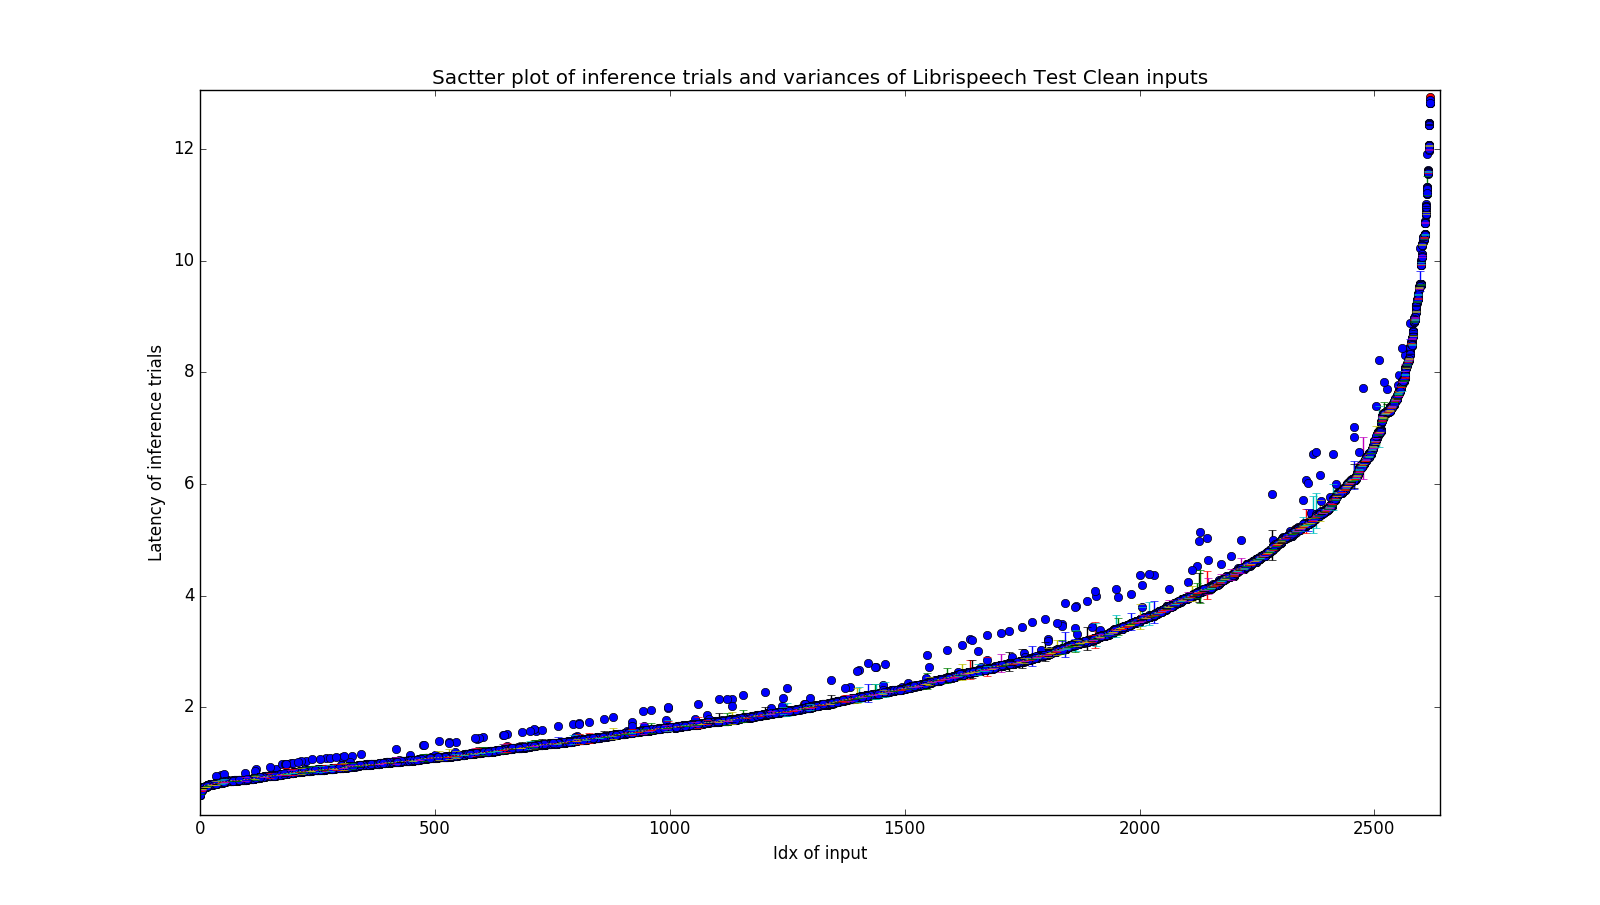
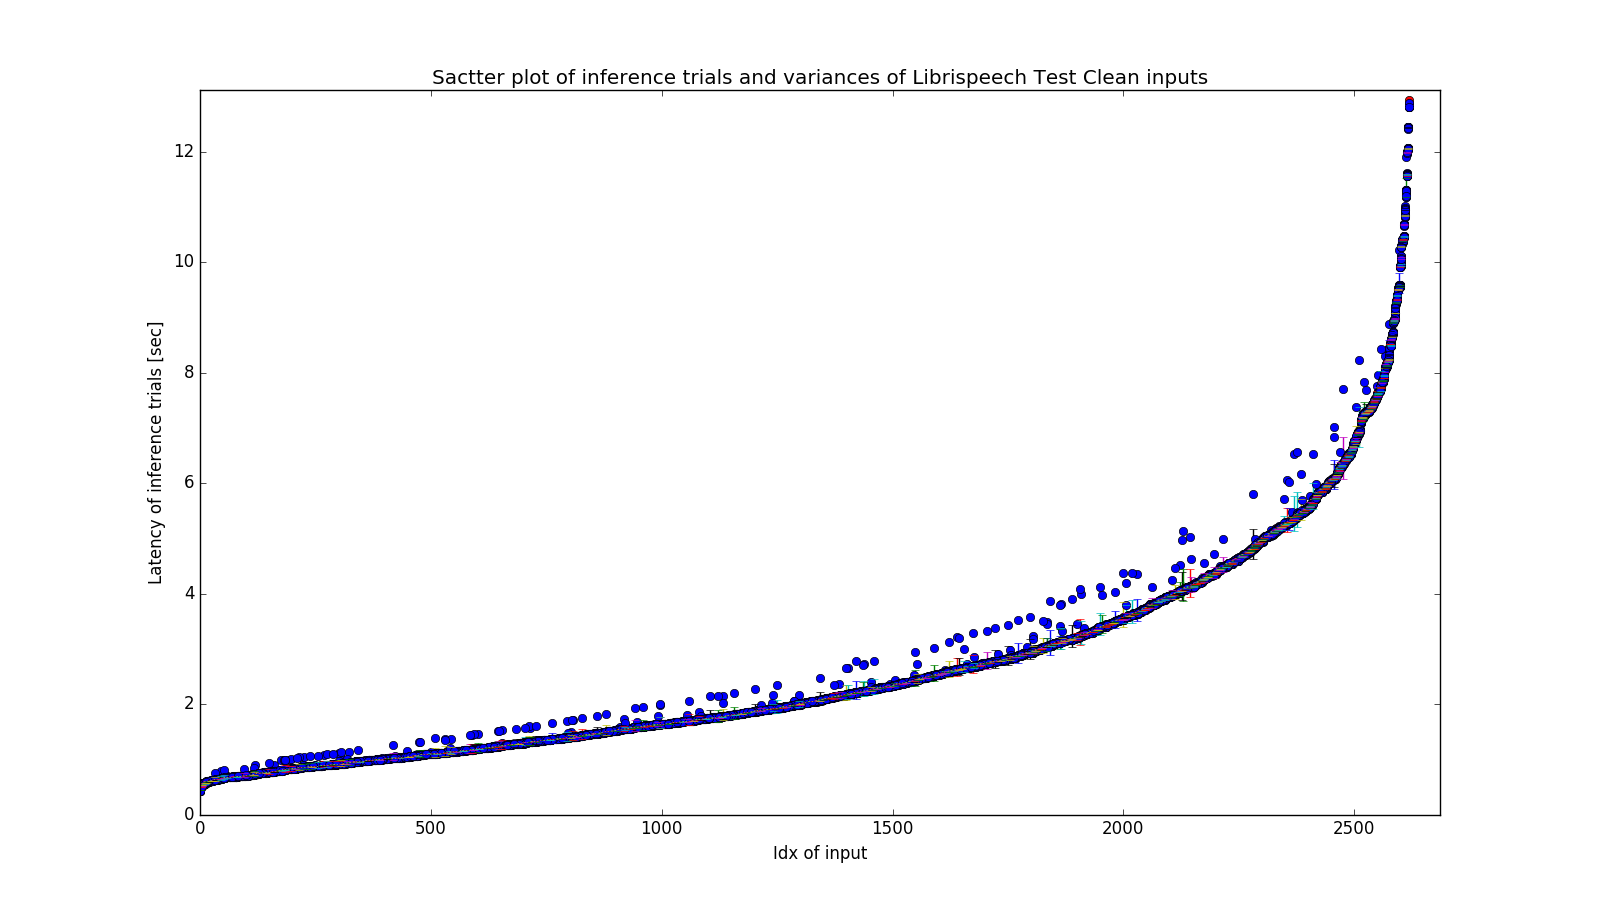
fix missing unit in plot

diff --git a/SpeechRecognition-DeepSpeech2/pytorch/results/inference/libri_test_clean_bs1/generate_plot.py b/SpeechRecognition-DeepSpeech2/pytorch/results/inference/libri_test_clean_bs1/generate_plot.py
@@ -137,7 +137,7 @@ if __name__ == "__main__":
         ax.errorbar(idx,data[idx]['mean'],yerr=data[idx]['stddev'])
     plt.title('Sactter plot of inference trials and variances of Librispeech Test Clean inputs')
     plt.xlabel('Idx of input')
-    plt.ylabel('Latency of inference trials')
+    plt.ylabel('Latency of inference trials [sec]')
     print('Showing plot (takes a while and blocks)')
 #     plt.show()
     print('Saving Figures')
